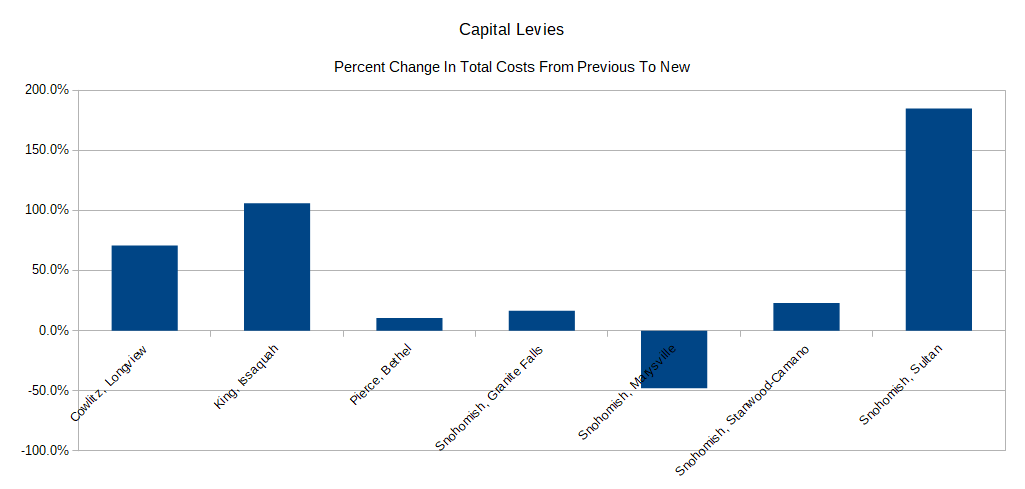
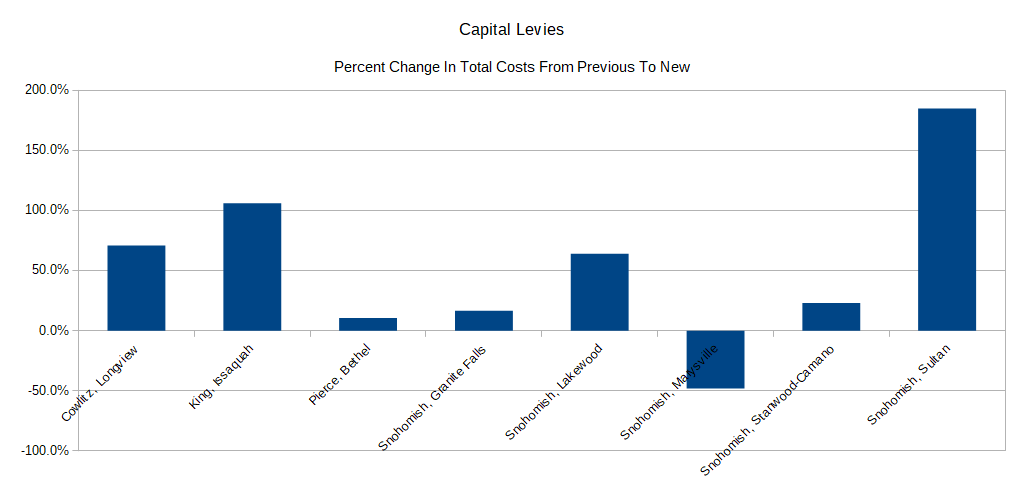
Added Lakewood_Enhanced calc

diff --git a/_includes/cost_estimates/Lakewood_Enhanced.html b/_includes/cost_estimates/Lakewood_Enhanced.html
@@ -1,0 +1,235 @@
+<html>
+ <head>
+  <script type="text/javascript" src="https://www.gstatic.com/charts/loader.js"></script>
+  <script type="text/javascript">
+    google.charts.load('current', {'packages':['corechart','bar','table']});
+    google.charts.setOnLoadCallback(drawStuff);
+
+	var table_input;
+	var table;
+	var chart;
+	var dataParcel;
+	
+	totalLevyAV = 3474936546;
+	sampleParcelAV = 500000;
+	sampleParcelAVMin = 100000;
+	sampleParcelAVMax = 2000000;
+	totalLevyCost = 3810000;
+	sampleParcelPOF = sampleParcelAV / totalLevyAV;
+	totalLevyCostParcel = sampleParcelPOF * totalLevyCost;
+	levyYears = 4;
+	averageTotalLevyCostParcel = totalLevyCostParcel / levyYears;
+	totalLevyPriorCost = 2325000.0;
+	totalLevyPriorCostParcel = sampleParcelPOF * totalLevyPriorCost;
+	averageTotalLevyPriorCostParcel = totalLevyPriorCostParcel / levyYears;
+	// POF Annual Change Percent
+	pofAdjust = 0;
+	pofAdjustMin = -1.0;
+	pofAdjustMax = 1.0;
+
+
+
+    function drawStuff() {
+		// Levy 1 schedule
+		data = new google.visualization.DataTable();
+		data.addColumn('string', 'Year');
+		data.addColumn('number', 'Prior Levy Amount');
+		data.addColumn('number', 'New Levy Amount');
+
+		data.addRows([
+			['2019', 725000, 0],
+			['2020', 750000, 0],
+			['2021', 412500, 0],
+			['2022', 437500, 0],
+			['2023', 0, 835000],
+			['2024', 0, 905000],
+			['2025', 0, 990000],
+			['2026', 0, 1080000],
+
+		]);
+
+		// Levy 1 parcel data
+		dataParcel = new google.visualization.DataTable();
+		dataParcel.addColumn('string', 'Year');
+		dataParcel.addColumn('number', 'Prior Levy Amount');
+		dataParcel.addColumn('number', 'New Levy Amount');
+
+		dataParcel.addRows(levyYears * 2);
+		sampleParcelPOFEffective = sampleParcelPOF;
+		totalLevyCostParcel = 0;
+		totalLevyPriorCostParcel = 0;
+		for (let i = 0; i < levyYears * 2; i++) {
+			sampleParcelPOFEffective = sampleParcelPOF * (1 + pofAdjust/100) ** (1 + i - levyYears);
+			dataParcel.setCell(i, 0, data.getValue(i, 0));
+			dataParcel.setCell(i, 1, data.getValue(i, 1) * sampleParcelPOFEffective);
+			dataParcel.setCell(i, 2, data.getValue(i, 2) * sampleParcelPOFEffective);
+			totalLevyCostParcel = totalLevyCostParcel + data.getValue(i, 2) * sampleParcelPOFEffective;
+			totalLevyPriorCostParcel = totalLevyPriorCostParcel + data.getValue(i, 1) * sampleParcelPOFEffective;
+		}		
+		averageTotalLevyCostParcel = totalLevyCostParcel / levyYears;
+		averageTotalLevyPriorCostParcel = totalLevyPriorCostParcel / levyYears;
+
+		options = {
+			title: 'Estimated Levy Cost Schedule For The Sample Parcel',
+			isStacked: true,
+			hAxis: {
+			title: '',
+			//format: 'h:mm a',
+			viewWindow: {
+				min: [7, 30, 0],
+				max: [17, 30, 0]
+			}
+        },
+        vAxis: {
+			title: '$'
+        }
+		};
+	  
+		
+
+		
+		// Levy 1 input data
+		// Sampler parcel AV table
+		table_input_data = new google.visualization.DataTable();
+		table_input_data.addColumn('string', 'Description');
+		table_input_data.addColumn('number', 'Value');
+		table_input_data.addRows([
+			['Sample parcel 2022 assessed value (AV)', sampleParcelAV],
+		]);
+
+		// POF Adjust table
+		// POF Adjust
+		table_pof_adjust_input_data = new google.visualization.DataTable();
+		table_pof_adjust_input_data.addColumn('string', 'Description');
+		table_pof_adjust_input_data.addColumn('number', 'Value');
+		table_pof_adjust_input_data.addRows([
+			['POF annual change', pofAdjust ],
+		]);
+
+		// Levy 1 output table
+		table_data = new google.visualization.DataTable();
+		table_data.addColumn('string', 'Description');
+		table_data.addColumn('number', 'Prior');
+		table_data.addColumn('number', 'New');
+		table_data.addColumn('number', 'Delta');
+		table_data.addColumn('number', 'Percent Change');
+		table_data.addRows([
+			['Total cost', totalLevyPriorCostParcel, totalLevyCostParcel, totalLevyCostParcel-totalLevyPriorCostParcel, (totalLevyCostParcel-totalLevyPriorCostParcel)/totalLevyPriorCostParcel*100],
+			['Average cost per year for 4 years', averageTotalLevyPriorCostParcel, averageTotalLevyCostParcel, (averageTotalLevyCostParcel-averageTotalLevyPriorCostParcel),(averageTotalLevyCostParcel-averageTotalLevyPriorCostParcel)/averageTotalLevyPriorCostParcel*100],
+		
+		]);
+
+		// Levy 1 chart
+		chart = new google.visualization.ColumnChart(document.getElementById('chart_div'));
+		formatter = new google.visualization.NumberFormat(
+			{prefix: '$', fractionDigits:0, negativeColor: 'red', negativeParens: false});
+		formatterPercent = new google.visualization.NumberFormat(
+			{suffix: '%', fractionDigits:0, negativeColor: 'red', negativeParens: false});
+		formatterPercent1 = new google.visualization.NumberFormat(
+			{suffix: '%', fractionDigits:1, negativeColor: 'red', negativeParens: false});
+		formatter.format(dataParcel, 1); // Apply formatter to second column
+		formatter.format(dataParcel, 2); // Apply formatter to third column
+		chart.draw(dataParcel, options);
+		
+		table = new google.visualization.Table(document.getElementById('table_output_div'));
+		formatter.format(table_data, 1); // Apply formatter to second column
+		formatter.format(table_data, 2); // Apply formatter to second column
+		formatter.format(table_data, 3); // Apply formatter to second column
+		formatterPercent.format(table_data, 4); // Apply formatter to second column
+		table.draw(table_data, {sort:'disable'});
+		
+		// Input table for sample parcel AV
+		table_input = new google.visualization.Table(document.getElementById('table_input_div'));
+		formatter.format(table_input_data, 1); // Apply formatter to second column
+		table_input.draw(table_input_data, {sort:'disable'});
+
+		// Input table for POF change
+		table_pof_adjust_input = new google.visualization.Table(document.getElementById('table_pof_adjust_input_div'));
+		formatterPercent1.format(table_pof_adjust_input_data, 1); // Apply formatter to second column
+		table_pof_adjust_input.draw(table_pof_adjust_input_data, {sort:'disable'});
+    }
+
+    function changeParcelAV(dir) {
+		//Update table input
+		sampleParcelAV = sampleParcelAV + dir
+		if (sampleParcelAV < sampleParcelAVMin)
+			sampleParcelAV = sampleParcelAVMin
+		if (sampleParcelAV > sampleParcelAVMax)
+			sampleParcelAV = sampleParcelAVMax
+		sampleParcelPOF = sampleParcelAV / totalLevyAV;
+		table_input_data.setValue(0, 1, sampleParcelAV);
+		formatter.format(table_input_data, 1); // Apply formatter to second column
+		table_input.draw(table_input_data);
+		//Update chart 1
+		sampleParcelPOFEffective = sampleParcelPOF;
+		totalLevyCostParcel = 0;
+		totalLevyPriorCostParcel = 0;
+		for (let i = 0; i < levyYears * 2; i++) {
+			sampleParcelPOFEffective = sampleParcelPOF * (1 + pofAdjust/100) ** (1 + i - levyYears);
+			dataParcel.setValue(i, 0, data.getValue(i, 0));
+			dataParcel.setValue(i, 1, data.getValue(i, 1) * sampleParcelPOFEffective);
+			dataParcel.setValue(i, 2, data.getValue(i, 2) * sampleParcelPOFEffective);
+			totalLevyCostParcel = totalLevyCostParcel + data.getValue(i, 2) * sampleParcelPOFEffective;
+			totalLevyPriorCostParcel = totalLevyPriorCostParcel + data.getValue(i, 1) * sampleParcelPOFEffective;
+		}		
+		averageTotalLevyCostParcel = totalLevyCostParcel / levyYears;
+		averageTotalLevyPriorCostParcel = totalLevyPriorCostParcel / levyYears;
+		formatter.format(dataParcel, 1); // Apply formatter to second column
+		formatter.format(dataParcel, 2);
+		chart.draw(dataParcel, options);
+		
+		//Update table output
+		table_data.setValue(0, 1, totalLevyPriorCostParcel); // Total levy prior cost parcel
+		table_data.setValue(0, 2, totalLevyCostParcel); // Total levy cost parcel
+		table_data.setValue(0, 3, (totalLevyCostParcel-totalLevyPriorCostParcel)); // Delta
+		table_data.setValue(0, 4, (totalLevyCostParcel-totalLevyPriorCostParcel)/totalLevyPriorCostParcel*100); // Percent change
+		table_data.setValue(1, 1, averageTotalLevyPriorCostParcel); // Average levy prior cost parcel
+		table_data.setValue(1, 2, averageTotalLevyCostParcel); // Average levy cost parcel
+		table_data.setValue(1, 3, (averageTotalLevyCostParcel-averageTotalLevyPriorCostParcel)); // Delta
+		table_data.setValue(1, 4, (averageTotalLevyCostParcel-averageTotalLevyPriorCostParcel)/averageTotalLevyPriorCostParcel*100); // Percent change
+		formatter.format(table_data, 1); // Apply formatter to second column
+		formatter.format(table_data, 2); // Apply formatter to third column
+		formatter.format(table_data, 3); // Apply formatter to fourth column
+		formatterPercent.format(table_data, 4); // Apply formatter to fifth column
+		table.draw(table_data);
+    }
+	
+	function changePOFChange(dir) {
+		pofAdjust = pofAdjust + dir;
+		if (pofAdjust < pofAdjustMin)
+			pofAdjust = pofAdjustMin;
+		if (pofAdjust > pofAdjustMax)
+			pofAdjust = pofAdjustMax;
+		table_pof_adjust_input_data.setValue(0, 1, pofAdjust);
+		formatterPercent1.format(table_pof_adjust_input_data, 1); // Apply formatter to second column
+		table_pof_adjust_input.draw(table_pof_adjust_input_data);
+		changeParcelAV(0);
+	}
+
+  </script>
+ </head>
+ <body>
+  <H2>Property tax impact estimate calculator for the April 26th 2022 levy measures proposed by the Lakewood SD</H2>
+  <p>Created by the author independently from and not associated with the school district</p>
+  <H3>Input</H3>
+  <div id="table_input_div" style="width:1200px; height: 60px;"></div>
+  <p></p>
+  <input type="button" value="Increase Sample Parcel 2022 AV" onclick="changeParcelAV(50000)" />
+  <input type="button" value="Decrease Sample Parcel 2022 AV" onclick="changeParcelAV(-50000)" />
+  <p></p>
+  <div id="table_pof_adjust_input_div" style="width:1200px; height: 60px;"></div>
+  <input type="button" value="Increase POF Annual Change" onclick="changePOFChange(0.1)" />
+  <input type="button" value="Decrease POF Annual Change" onclick="changePOFChange(-0.1)" />
+  <p></p>
+  <H3>Output</H3>
+  <H3>Capital Levy</H3>
+  <p>Estimated obligations for the sample parcel</P>
+  <div id="table_output_div" style="width:1200px; height: 130px;"></div>
+  <div id="chart_div" style="width:800px; height: 640px;"></div>
+  <H3>Data Sources</H3>
+  <p>The district's 2022 levy resolutions</p>
+  <p>The county assessor's website for historical property taxes</p>
+
+ </body>
+</html>
+

diff --git a/pagesManual/LeviesReport/report_levies_20220426.md b/pagesManual/LeviesReport/report_levies_20220426.md
@@ -107,7 +107,7 @@ ___
 
 [Calculator for the Kennewick SD](calculator_kennewick_enhanced)
 
-[Calculator for the Lakewood SD](calculator_lakewood)
+[Calculator for the Lakewood SD](calculator_lakewood_enhanced)
 
 [Calculator for the Longview SD](calculator_longview_enhanced)
 

diff --git a/pagesManual/LeviesReport/20220426/calculator_lakewood_enhanced.md b/pagesManual/LeviesReport/20220426/calculator_lakewood_enhanced.md
@@ -1,0 +1,13 @@
+---
+layout: page
+title: Calculator
+permalink: calculator_lakewood_enhanced
+---
+
+___
+
+{% include cost_estimates/Lakewood_Enhanced.html %}
+
+___
+
+
